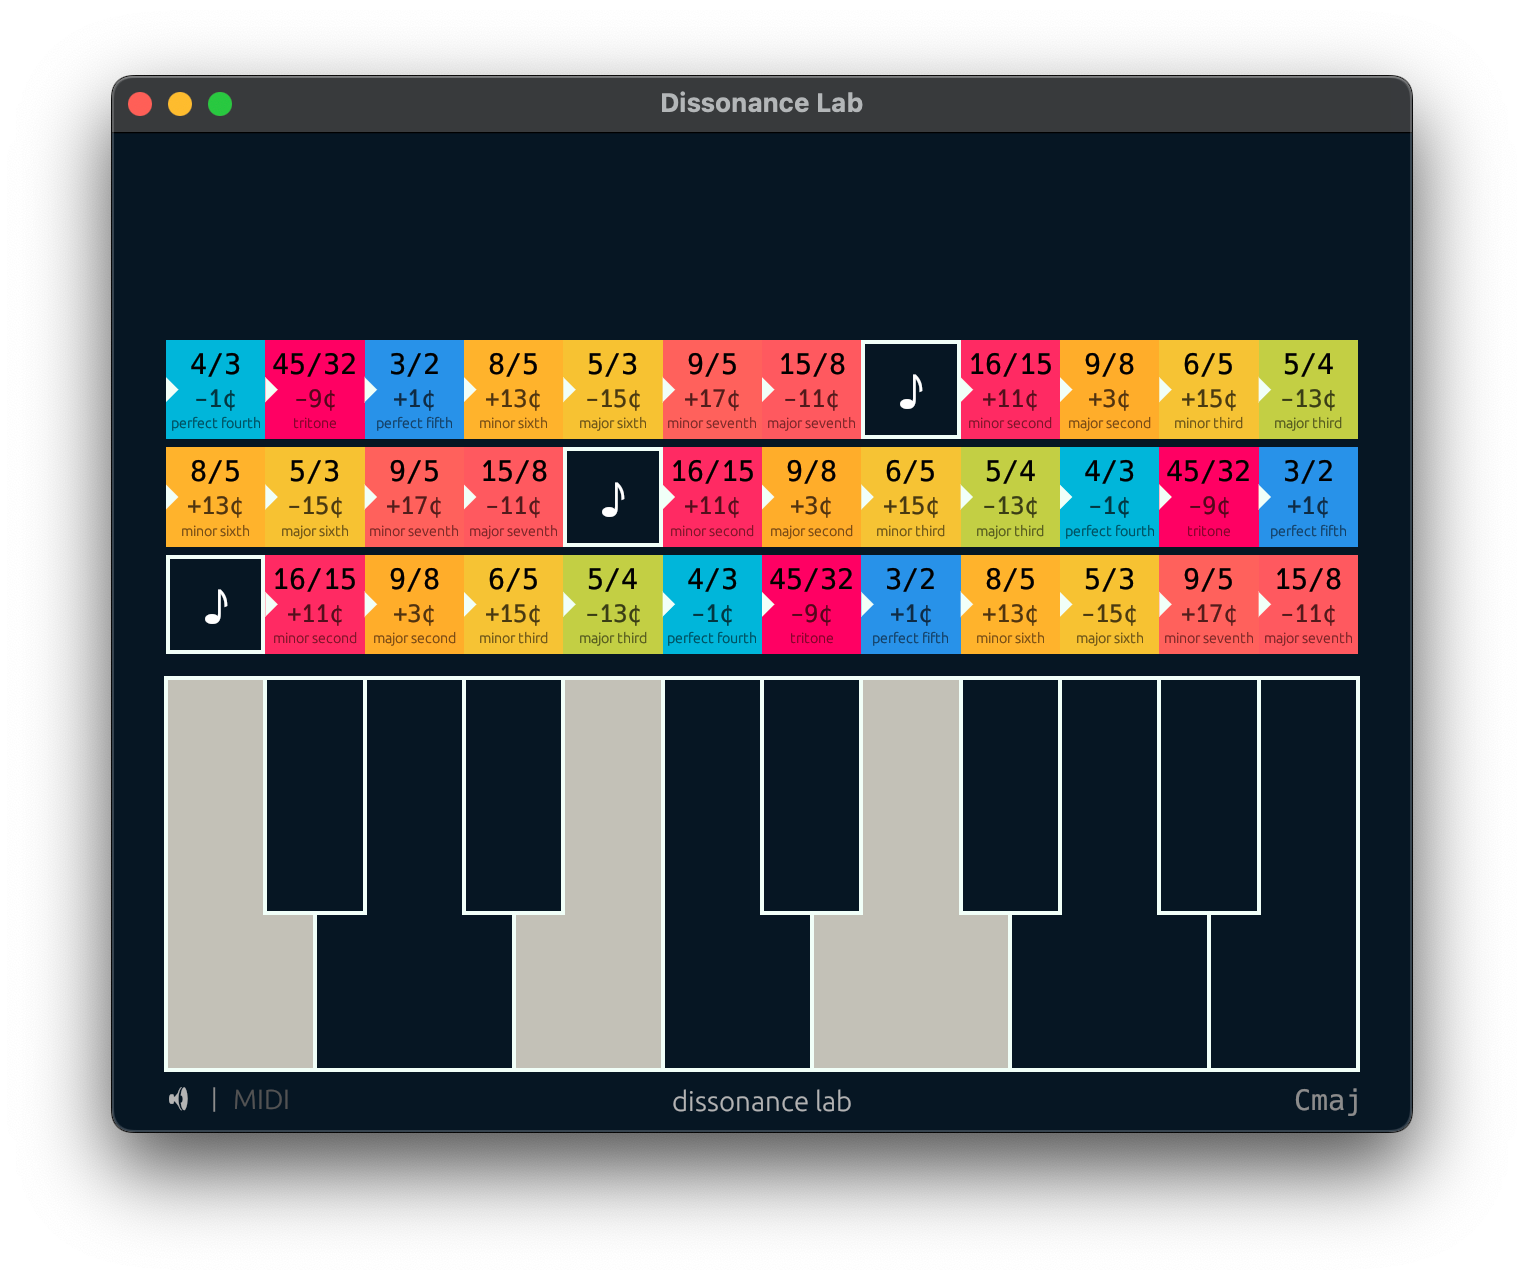
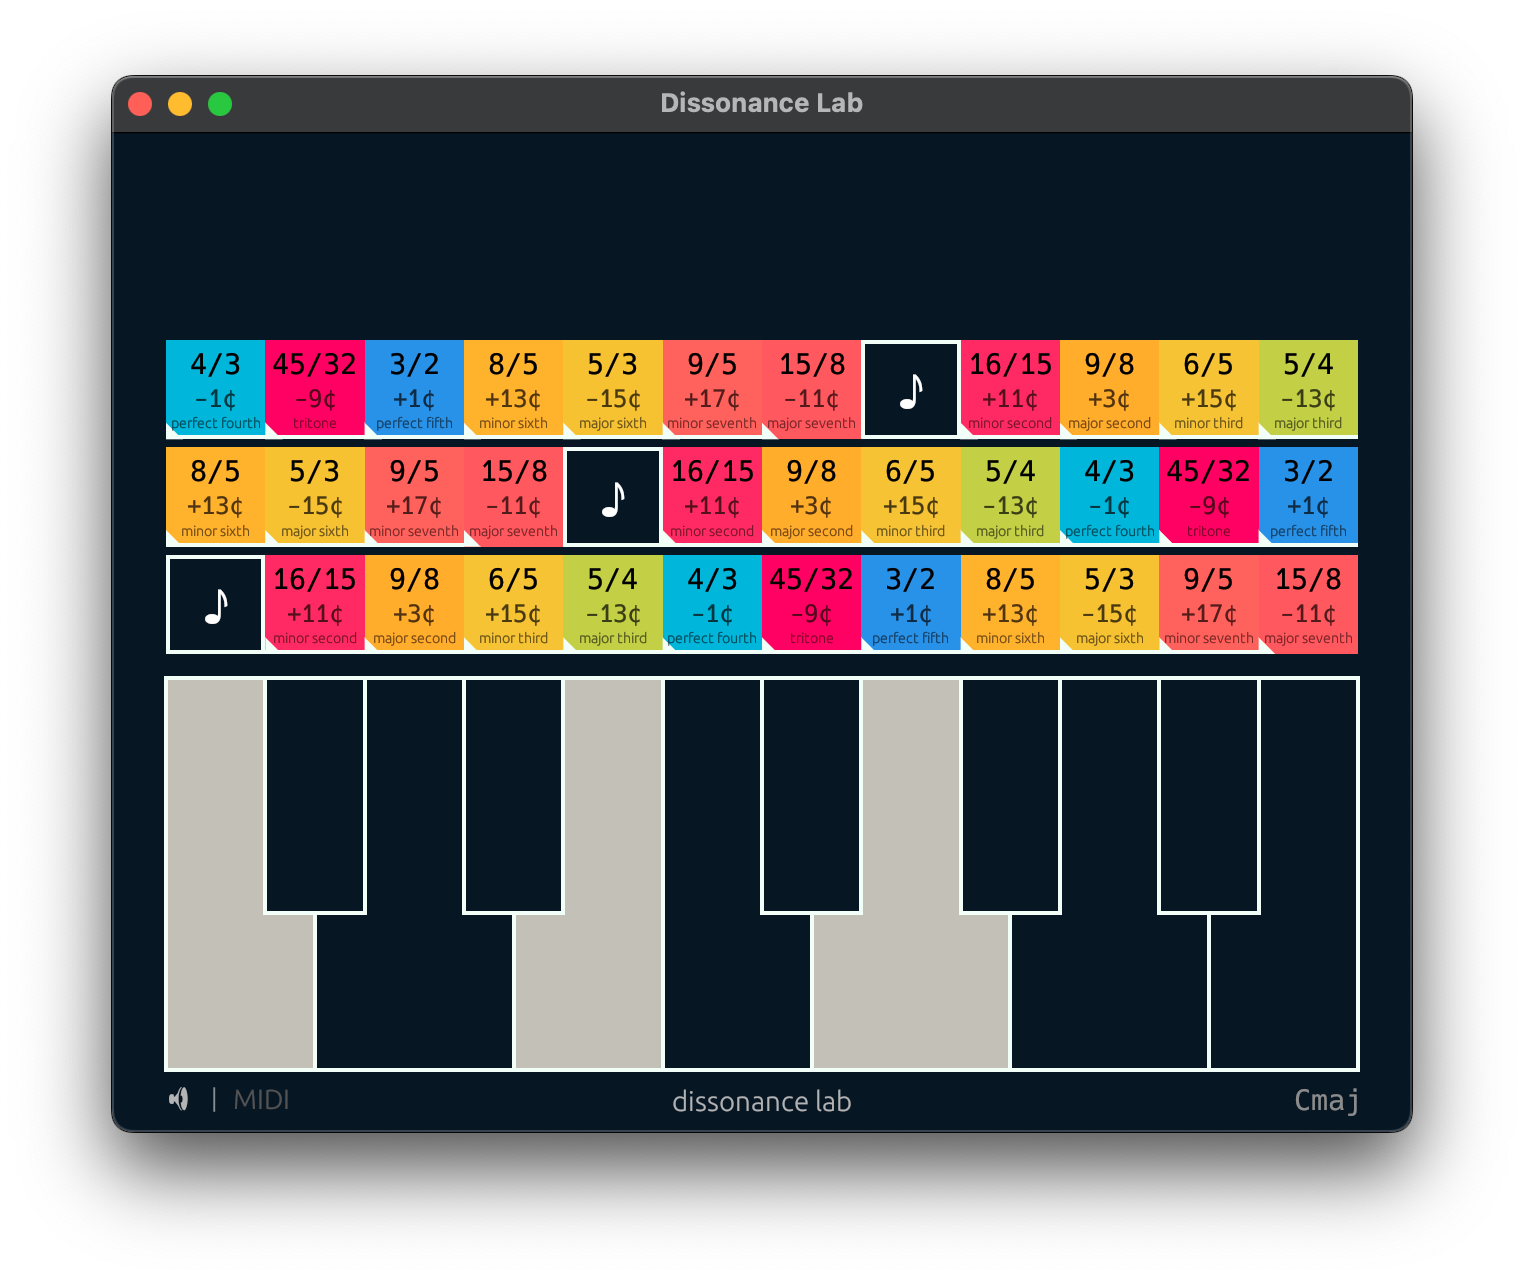
adjust root indication graphics

diff --git a/src/interval_display.rs b/src/interval_display.rs
@@ -36,11 +36,12 @@ pub fn show(piano: &mut piano_gui::PianoGui, ui: &mut Ui) -> Option<piano_gui::A
             );
             let this_selected = semi == selected_semi;
             let score_center_pos = pos - Vec2::Y * ((row as f32 + 0.5) * (key_width + 4.0) + 10.0);
+            const OUTLINE_STROKE_WIDTH: f32 = 2.0;
             if this_selected {
                 painter.rect_stroke(
                     Rect::from_center_size(score_center_pos, Vec2::splat(key_width)),
                     0.0,
-                    Stroke::new(2.0, theme::outlines()),
+                    Stroke::new(OUTLINE_STROKE_WIDTH, theme::outlines()),
                     StrokeKind::Inside,
                 );
                 painter.text(
@@ -60,16 +61,27 @@ pub fn show(piano: &mut piano_gui::PianoGui, ui: &mut Ui) -> Option<piano_gui::A
                     colorgrad_to_egui(&theme::DISSONANCE_GRADIENT.at(normalized_dissonance)),
                 );
                 // draw triangles to indicate that the pressed key is considered the root
-                const TRIANGLE_SIZE: f32 = 1.0 / 8.0;
+                const TRIANGLE_SIZE: f32 = 1.0 / 6.0;
                 painter.add(PathShape::convex_polygon(
                     vec![
-                        score_center_pos + vec2(-key_width / 2.0, key_width * TRIANGLE_SIZE),
-                        score_center_pos + vec2(-key_width / 2.0, -key_width * TRIANGLE_SIZE),
-                        score_center_pos + vec2(key_width * (-1.0 / 2.0 + TRIANGLE_SIZE), 0.0),
+                        score_center_pos + vec2(-key_width / 2.0, key_width / 2.0),
+                        score_center_pos
+                            + vec2(-key_width / 2.0, key_width * (0.5 - TRIANGLE_SIZE)),
+                        score_center_pos
+                            + vec2(key_width * (-0.5 + TRIANGLE_SIZE), key_width / 2.0),
                     ],
                     theme::outlines(),
                     Stroke::NONE,
                 ));
+                if (semi + 1).rem_euclid(12) != selected_semi {
+                    painter.line_segment(
+                        [
+                            score_center_pos + vec2(-key_width / 2.0, key_width / 2.0 - OUTLINE_STROKE_WIDTH / 2.0),
+                            score_center_pos + vec2(key_width / 2.0, key_width / 2.0- OUTLINE_STROKE_WIDTH / 2.0),
+                        ],
+                        Stroke::new(OUTLINE_STROKE_WIDTH, theme::outlines()),
+                    );
+                }
                 let ratio_rect = painter.text(
                     score_center_pos - vec2(0.0, key_width / 2.0 - 4.0),
                     Align2::CENTER_TOP,
